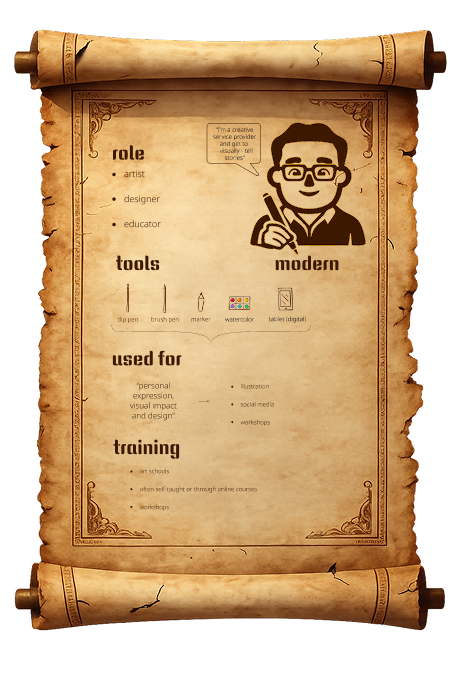
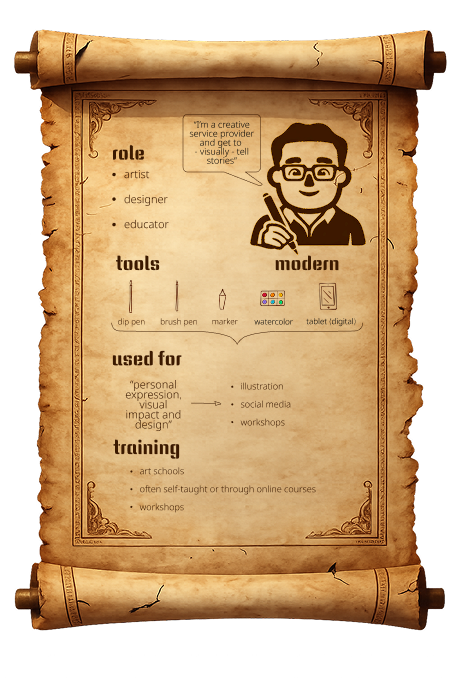
was

diff --git a/src/App.jsx b/src/App.jsx
@@ -58,7 +58,8 @@ import SchreibuebungArabisch from './assets/Images/SchreibuebungArabisch.PNG';
 import SchreibuebungChinesisch from './assets/Images/Schreibübung_chinesisch.svg';
 
 // Bilder für Der Kalligraf Seite
-import kalligrafImg from './assets/Images/Kalligraf.png';
+import traditionalImg from './assets/Images/traditional.png';
+import modernImg from './assets/Images/modern.png';
 
 const moderneKalligrafieItems = [
   { image: quoteImg, text: 'text' },
